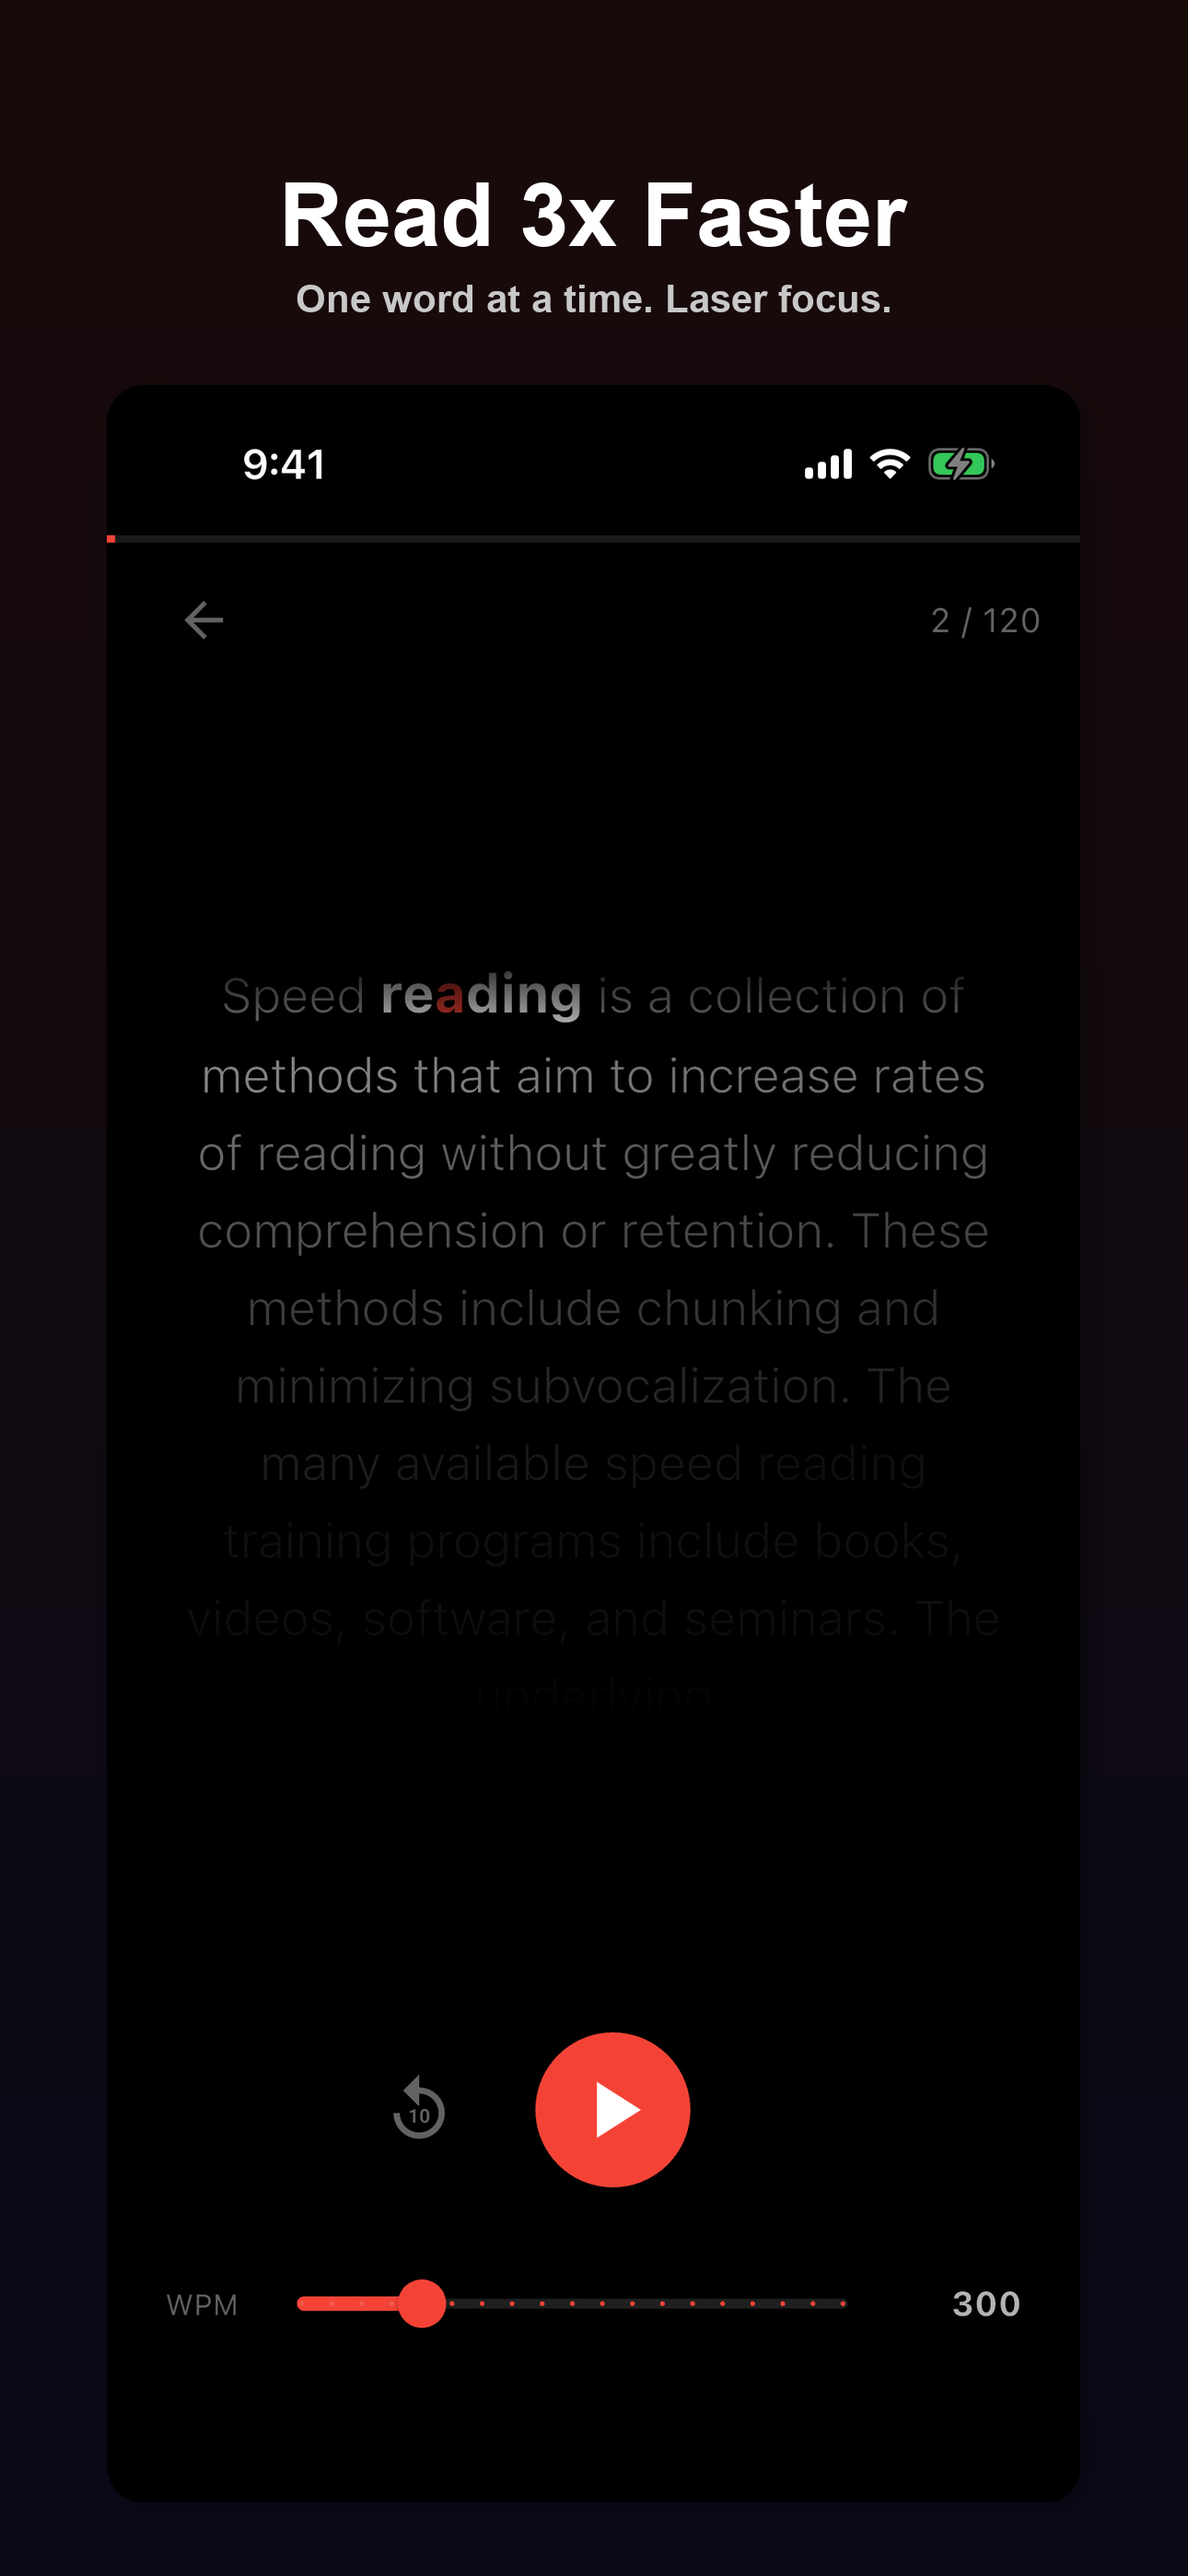
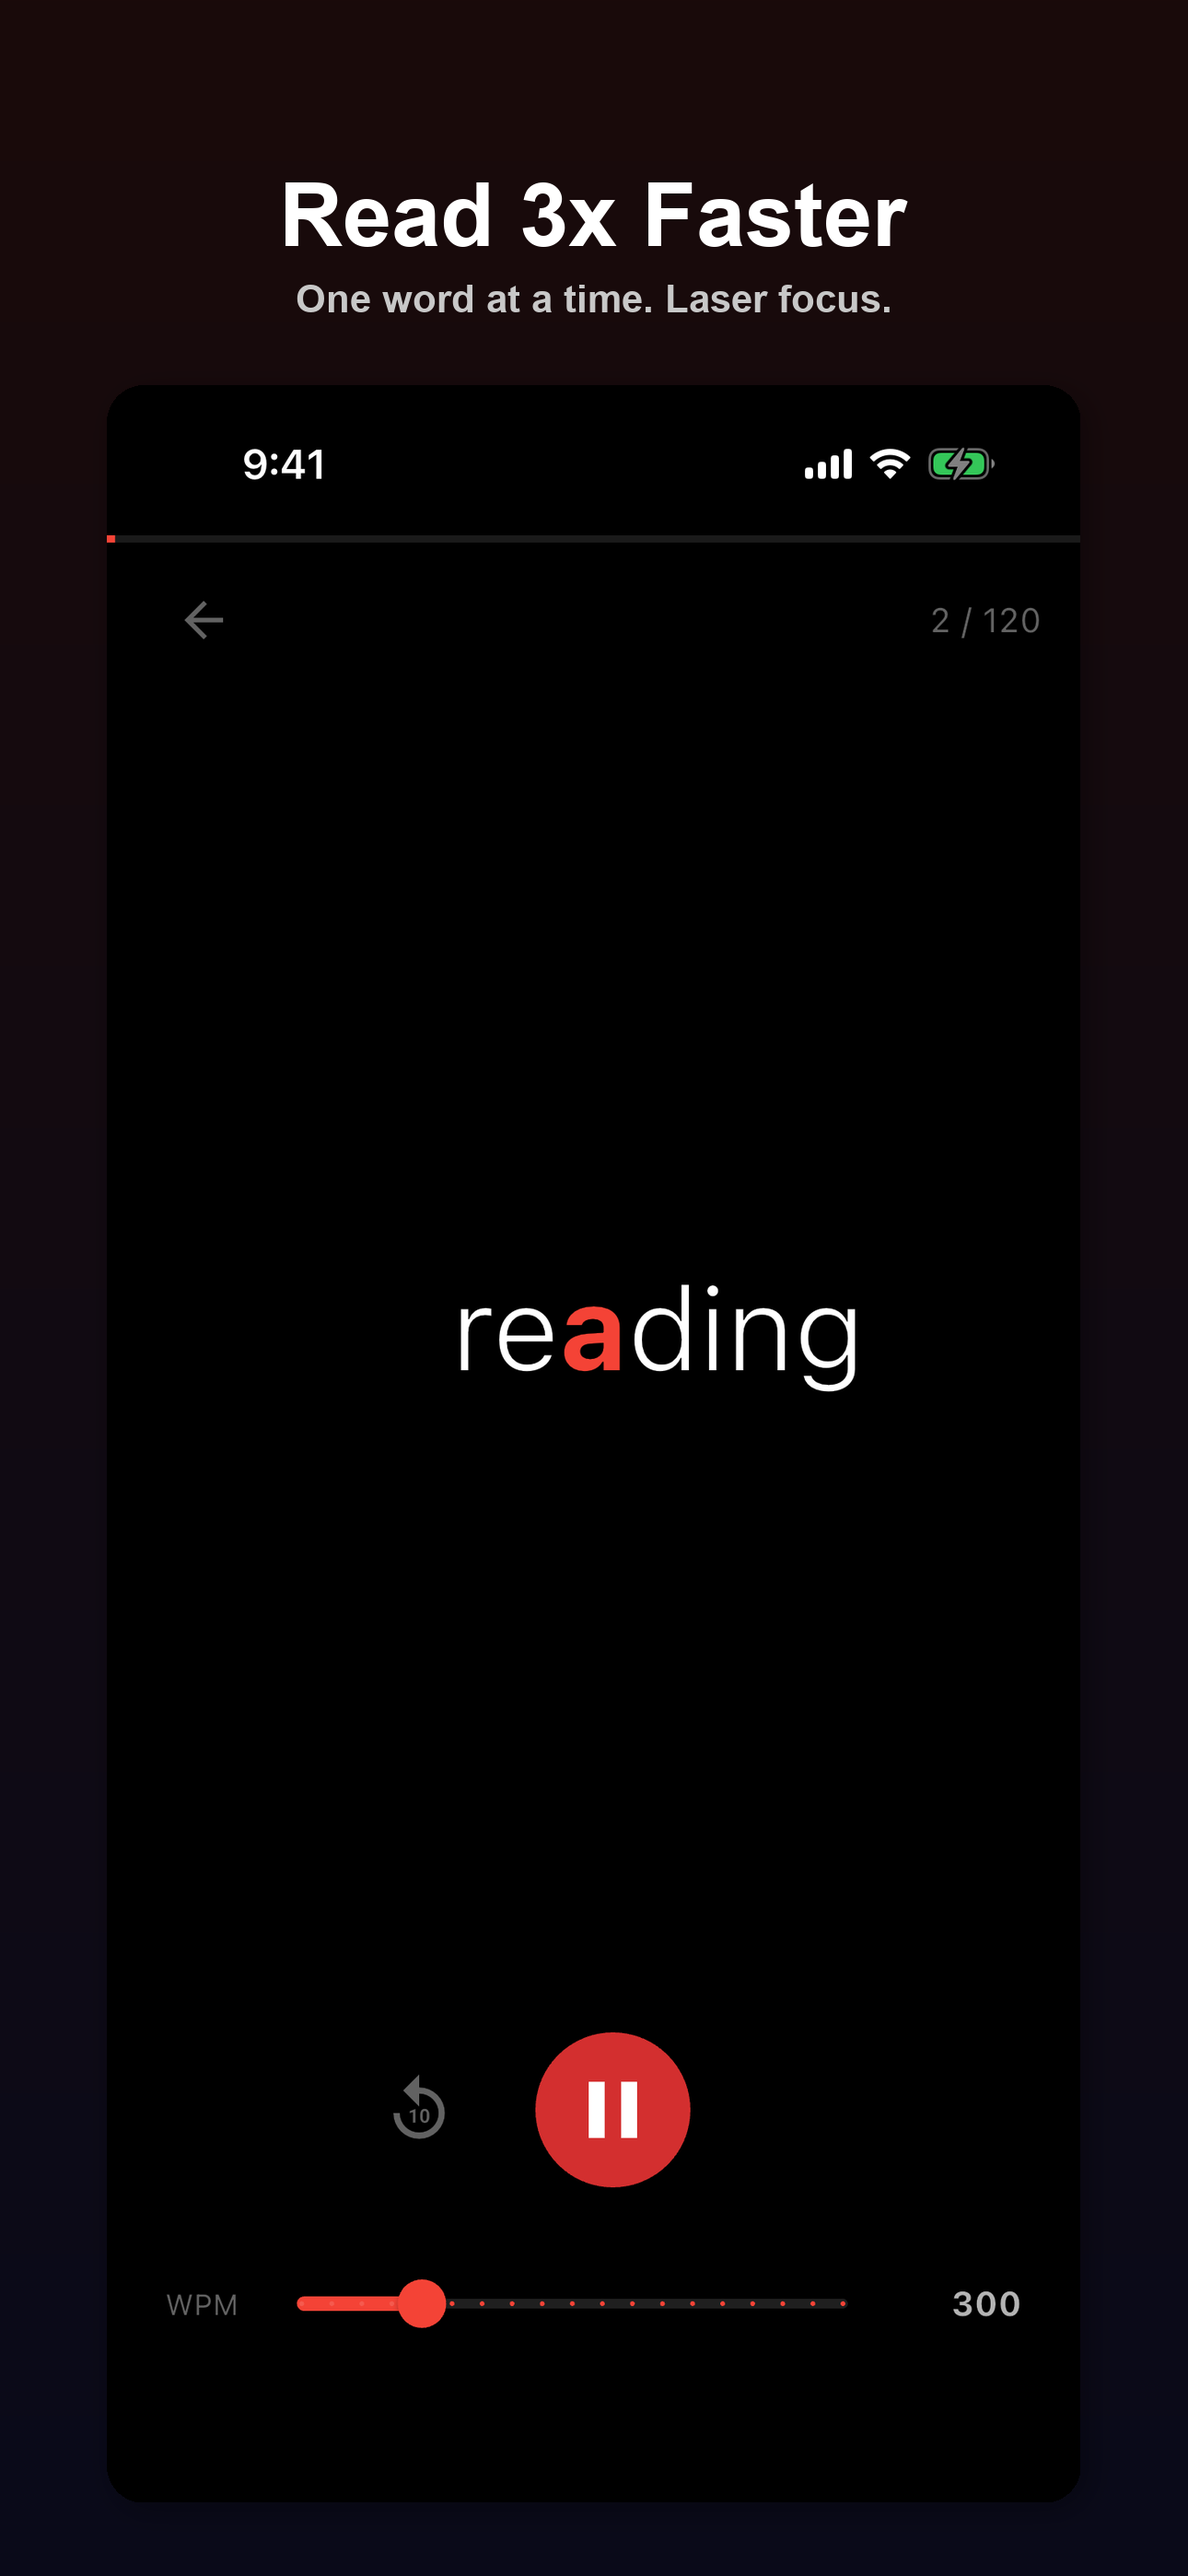
Play mode hero screenshot, paused context view, deploy back-pause fix

diff --git a/screenshots/frame_screenshots.py b/screenshots/frame_screenshots.py
@@ -34,7 +34,7 @@ screens = [
         'accent': '#FF3B30',
     },
     {
-        'file': '03_reading.png',
+        'file': '05_paused.png',
         'headline': 'Your Speed, Your Way',
         'subline': 'Adjust from 100 to 1,000 words per minute.',
         'bg_top': '#0A1A1A',
